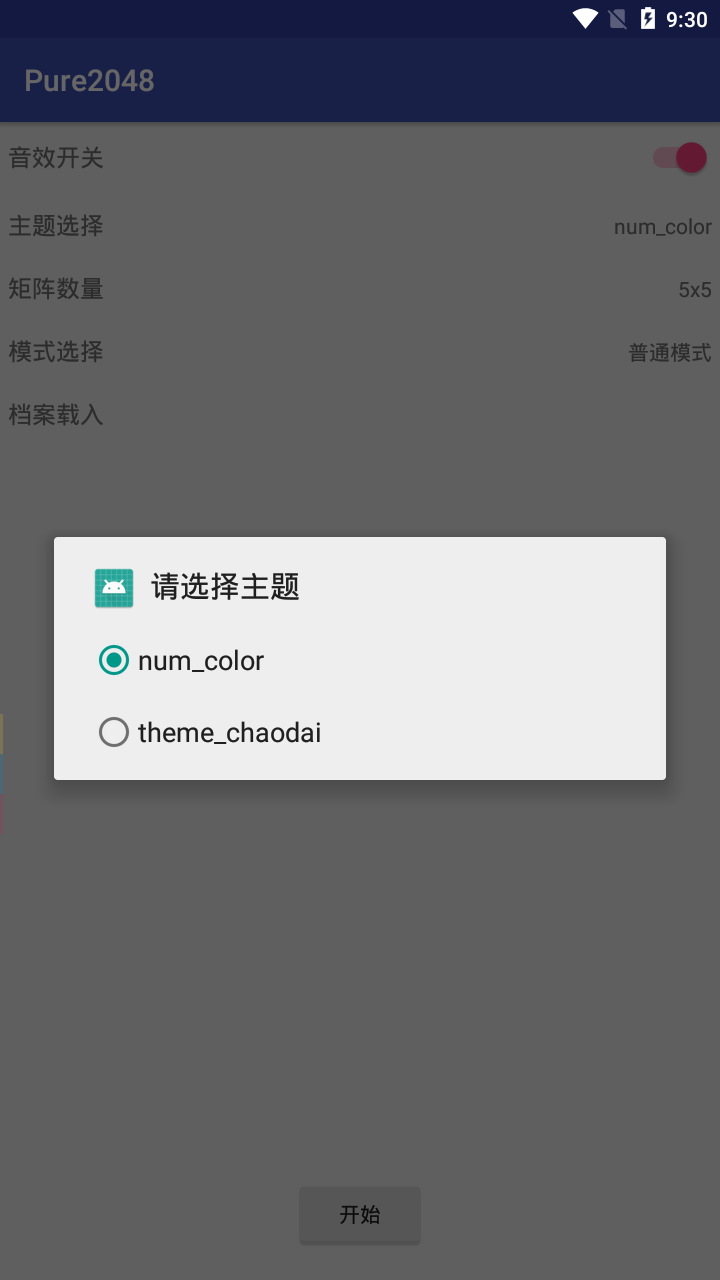
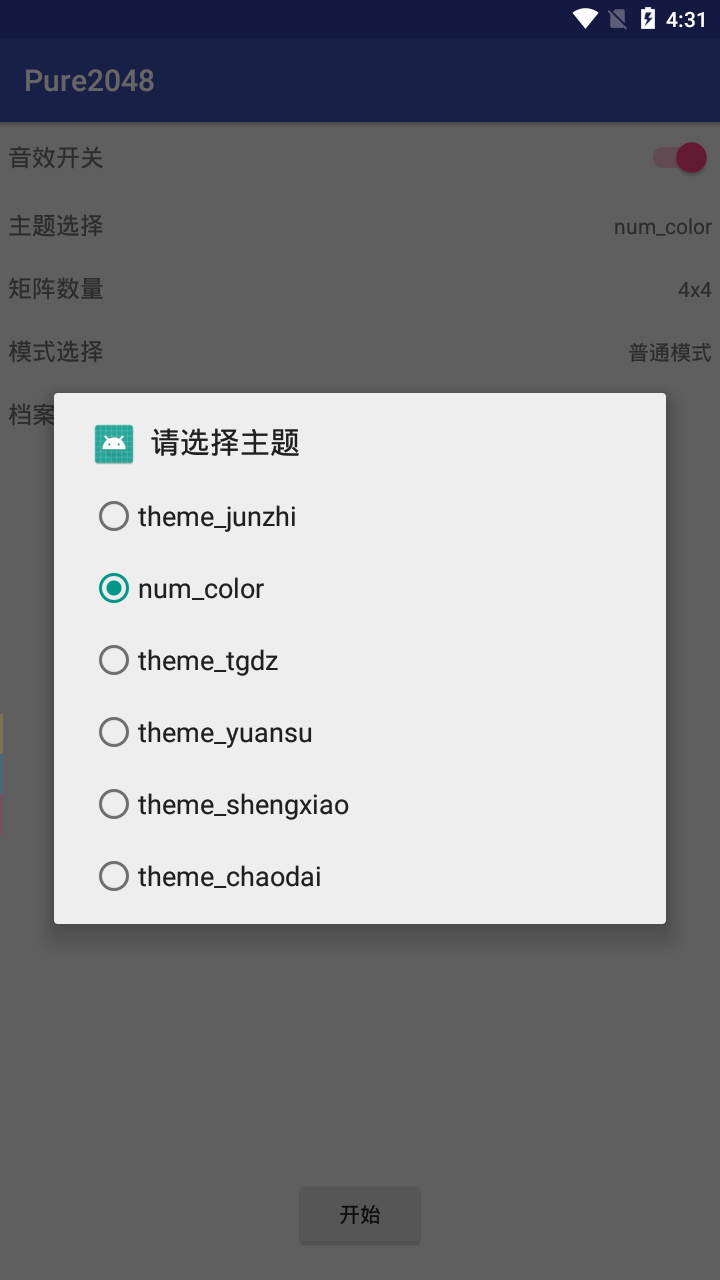
增加若干主题，调整主题配置块的名称，更新文档

Changed region(s): [[0.0611, 0.2812, 0.9472, 0.5312], [0.0611, 0.5625, 0.9472, 0.7188], [0.9167, 0.0, 0.9472, 0.0312]]

diff --git a/app/src/main/java/com/mycode/xml/pure2048/StartActivity.java b/app/src/main/java/com/mycode/xml/pure2048/StartActivity.java
@@ -230,10 +230,6 @@ public class StartActivity extends AppCompatActivity {
                 recycleAdapter.notifyDataSetChanged();
                 dialogInterface.dismiss();
                 Config.game_theme=themesList.get(themeCheckedIndex);
-
-                //主题加载
-                //File pf=new File(rootPath+"/themes"+"/"+Config.game_theme+"/"+Config.game_theme);
-                //loadTheme(pf);
             }
         });
         builder.create();
@@ -493,7 +489,7 @@ public class StartActivity extends AppCompatActivity {
             case 3:     //图片
             default:    //数字+颜色
             {
-                int base=1;
+                int base=0;
                 val=properties.getProperty("show_0");
                 if(val==null)   //读取失败
                 {
@@ -509,10 +505,10 @@ public class StartActivity extends AppCompatActivity {
                 }
                 Config.colorList.add(val);
 
-                int trycnt=30;
+                int trycnt=40;
                 while((trycnt--)>0)
                 {
-                    base*=2;
+                    base++;
                     val=properties.getProperty("show_"+base);
                     if(val==null)       //说明查找完毕
                     {
@@ -547,27 +543,27 @@ public class StartActivity extends AppCompatActivity {
 
         properties.setProperty("show_0",Config.NumTable[num_index++]);
         properties.setProperty("show_other",Config.NumTable[num_index++]);
+        properties.setProperty("show_1",Config.NumTable[num_index++]);
         properties.setProperty("show_2",Config.NumTable[num_index++]);
+        properties.setProperty("show_3",Config.NumTable[num_index++]);
         properties.setProperty("show_4",Config.NumTable[num_index++]);
+        properties.setProperty("show_5",Config.NumTable[num_index++]);
+        properties.setProperty("show_6",Config.NumTable[num_index++]);
+        properties.setProperty("show_7",Config.NumTable[num_index++]);
         properties.setProperty("show_8",Config.NumTable[num_index++]);
+        properties.setProperty("show_9",Config.NumTable[num_index++]);
+        properties.setProperty("show_10",Config.NumTable[num_index++]);
+        properties.setProperty("show_11",Config.NumTable[num_index++]);
+        properties.setProperty("show_12",Config.NumTable[num_index++]);
+        properties.setProperty("show_13",Config.NumTable[num_index++]);
+        properties.setProperty("show_14",Config.NumTable[num_index++]);
+        properties.setProperty("show_15",Config.NumTable[num_index++]);
         properties.setProperty("show_16",Config.NumTable[num_index++]);
-        properties.setProperty("show_32",Config.NumTable[num_index++]);
-        properties.setProperty("show_64",Config.NumTable[num_index++]);
-        properties.setProperty("show_128",Config.NumTable[num_index++]);
-        properties.setProperty("show_256",Config.NumTable[num_index++]);
-        properties.setProperty("show_512",Config.NumTable[num_index++]);
-        properties.setProperty("show_1024",Config.NumTable[num_index++]);
-        properties.setProperty("show_2048",Config.NumTable[num_index++]);
-        properties.setProperty("show_4096",Config.NumTable[num_index++]);
-        properties.setProperty("show_8192",Config.NumTable[num_index++]);
-        properties.setProperty("show_16384",Config.NumTable[num_index++]);
-        properties.setProperty("show_32768",Config.NumTable[num_index++]);
-        properties.setProperty("show_65536",Config.NumTable[num_index++]);
-        properties.setProperty("show_131072",Config.NumTable[num_index++]);
-        properties.setProperty("show_262144",Config.NumTable[num_index++]);
-        properties.setProperty("show_524288",Config.NumTable[num_index++]);
-        properties.setProperty("show_1048676",Config.NumTable[num_index++]);
-        properties.setProperty("show_2097152",Config.NumTable[num_index++]);
+        properties.setProperty("show_17",Config.NumTable[num_index++]);
+        properties.setProperty("show_18",Config.NumTable[num_index++]);
+        properties.setProperty("show_19",Config.NumTable[num_index++]);
+        properties.setProperty("show_20",Config.NumTable[num_index++]);
+        properties.setProperty("show_21",Config.NumTable[num_index++]);
 
         try {
             properties.store(fos, null);

diff --git a/app/src/main/java/com/mycode/xml/pure2048/Config.java b/app/src/main/java/com/mycode/xml/pure2048/Config.java
@@ -41,11 +41,6 @@ public class Config {
             "ffc56775",     //2097152
     };
 
-    //public static void initColorList()
-    //{
-    //
-    //}
-
     public static void initBpList(String url)
     {
         int cnt=colorList.size();

diff --git a/README.md b/README.md
@@ -7,6 +7,7 @@
 |-|-|
 |appConfig|Pure2048的配置文件|
 |themes/|Pure2048的主题文件夹|
+|recorders/|档案文件|
 
 ## appConfig文件介绍
 
@@ -46,28 +47,29 @@ theme_chaodai配置文件参考如下：
 show_style=3
 
 show_0=0_null.png
-show_2=1_xia.png
-show_4=2_shang.png
-show_8=3_zhou.png
-show_16=4_chunqiu.png
-show_32=5_zhanguo.png
-show_64=6_qin.png
-show_128=7_han.png
-show_256=8_sanguo.png
-show_512=9_jin.png
-show_1024=10_nanchao.png
-show_2048=11_beichao.png
-show_4096=12_sui.png
-show_8192=13_tang.png
-show_16384=14_wudai.png
-show_32768=15_shiguo.png
-show_65536=16_song.png
-show_131072=17_liao.png
-show_262144=18_jin.png
-show_524288=19_yuan.png
-show_1048676=20_ming.png
-show_2097152=21_qing.png
 show_other=0_null.png
+show_1=1_xia.png
+show_2=2_shang.png
+show_3=3_zhou.png
+show_4=4_chunqiu.png
+show_5=5_zhanguo.png
+show_6=6_qin.png
+show_7=7_han.png
+show_8=8_sanguo.png
+show_9=9_jin.png
+show_1=10_nanchao.png
+show_11=11_beichao.png
+show_12=12_sui.png
+show_13=13_tang.png
+show_14=14_wudai.png
+show_15=15_shiguo.png
+show_16=16_song.png
+show_17=17_liao.png
+show_18=18_jin.png
+show_19=19_yuan.png
+show_20=20_ming.png
+show_21=21_qing.png
+
 
 ```
 
@@ -75,7 +77,7 @@ show_other=0_null.png
 |-|-|
 |show_style|0、1、2、3|表示方块显示样式，=0只显示数字，不显示颜色，=1只显示颜色不显示数字，=2数字颜色都显示，=3显示图片|
 |show_0|表示空白方块的颜色,比如ffc0c0c0|
-|show_x|x应该是2的n次方，比如2、4、8、16等，该字段的表示对应值的方块的颜色或者图片|
+|show_x|x应该是依次递增的方块，该字段的表示对应值的方块的颜色或者图片|
 |show_other|表示其他未知方块的颜色或者图片|
 
 **注意：**
@@ -119,3 +121,19 @@ show_other=0_null.png
 ## 使用拓展朝代主题，5x5
 
 ![预览2](https://raw.githubusercontent.com/qiuzhiqian/Pure2048/master/doc/review8.png)
+
+## 使用拓展生肖主题，4x4
+
+![预览2](https://raw.githubusercontent.com/qiuzhiqian/Pure2048/master/doc/review9.png)
+
+## 使用拓展天干地支主题，4x4
+
+![预览2](https://raw.githubusercontent.com/qiuzhiqian/Pure2048/master/doc/review10.png)
+
+## 使用拓展军旗主题，4x4
+
+![预览2](https://raw.githubusercontent.com/qiuzhiqian/Pure2048/master/doc/review11.png)
+
+## 使用拓展元素周期律主题，4x4
+
+![预览2](https://raw.githubusercontent.com/qiuzhiqian/Pure2048/master/doc/review11.png)
